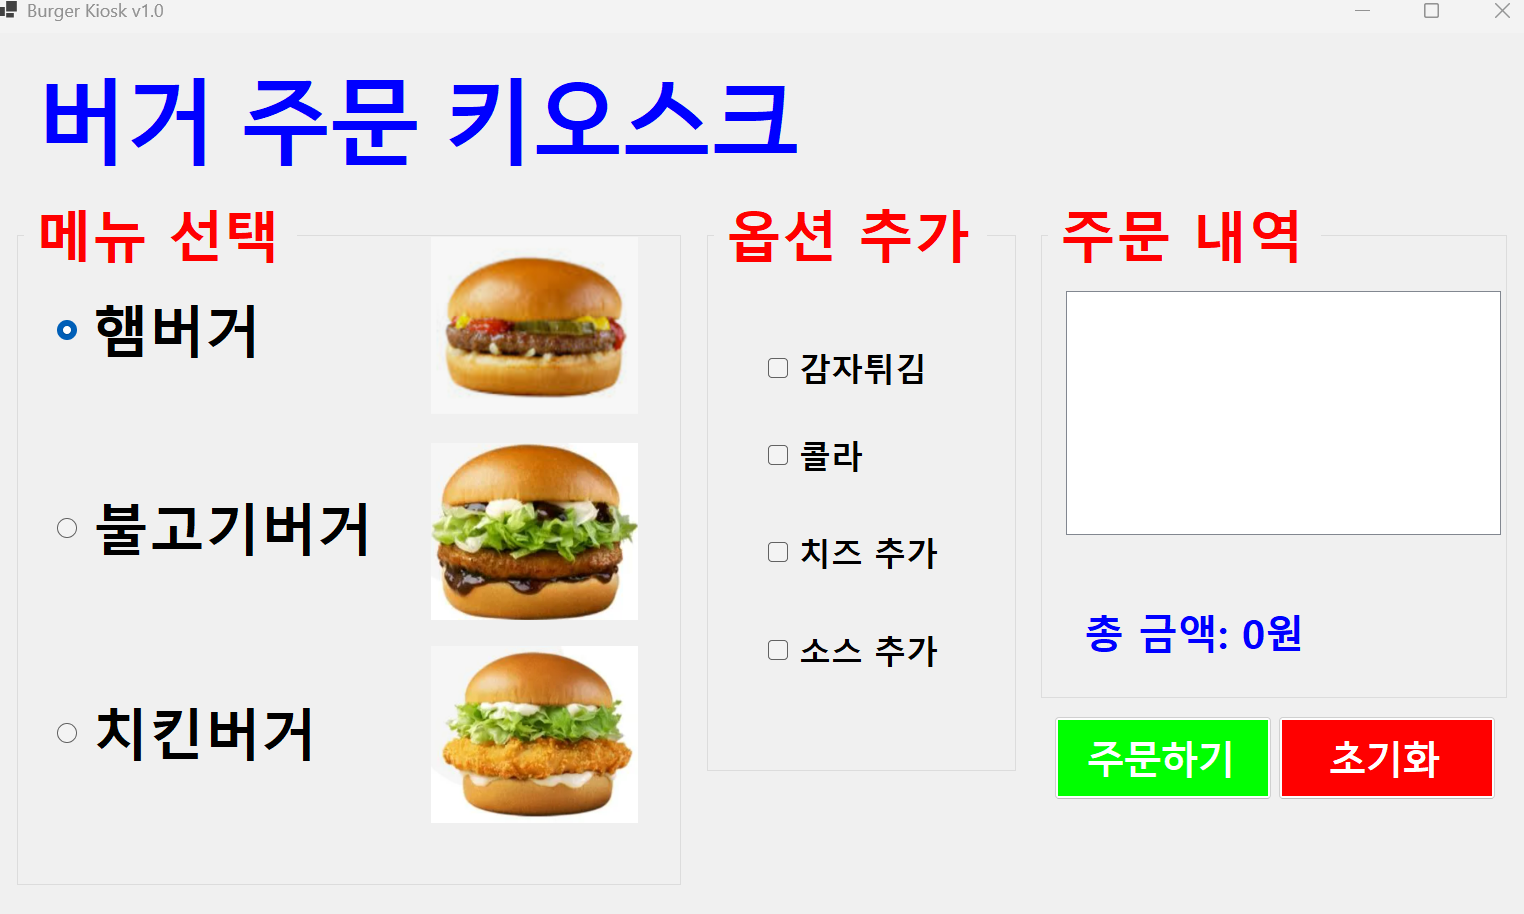
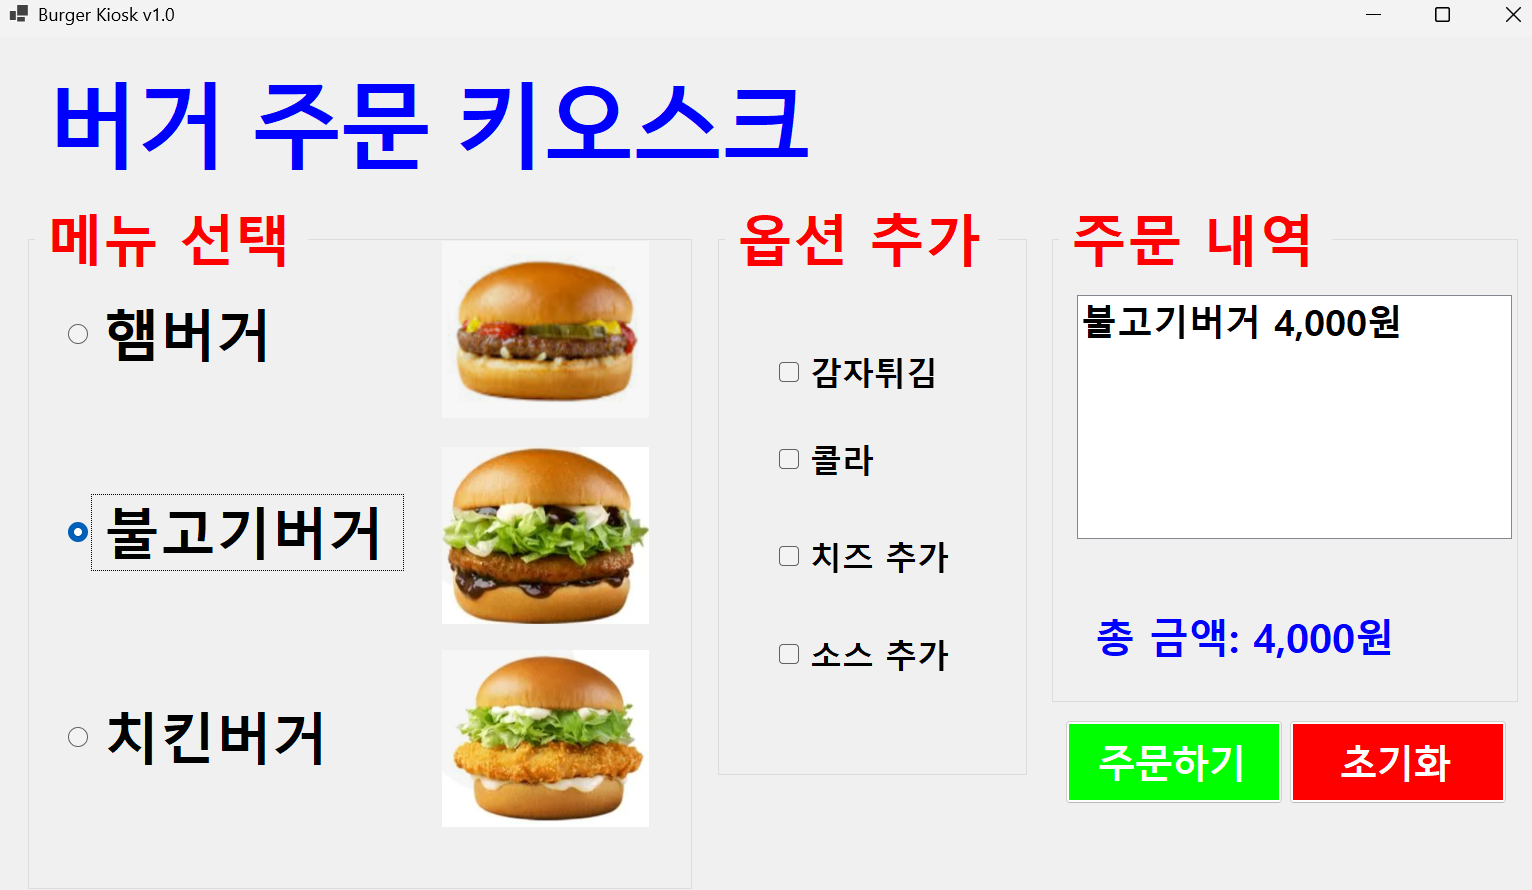
리드 미 수정

diff --git a/README.md b/README.md
@@ -21,9 +21,9 @@
 ## 실행 화면
 - 코드의 실행 스크린샷과 구현 내용 설명
 
-![실행화면](img/screenshot-1.png)
-![실행화면](img/screenshot-2.png)
-![실행화면](img/screenshot-3.png)
+![과제1 실행화면](img/screenshot-1.png)
+![과제1 실행화면](img/screenshot-2.png)
+![과제1 실행화면](img/screenshot-3.png)
 
 - 구현한 내용 (위 그림 참조)
 	- UI 구성 : RadioButton과 CheckBox 등을 적절히 배치
@@ -36,7 +36,7 @@
 ## 실행 화면
 - 코드의 실행 스크린샷과 구현 내용 설명
 
-![실행화면](img/screenshot-4.png)
+![과제2 실행화면](img/screenshot-4.png)
 
 - 구현한 내용 (위 그림 참조)
 	- 아무것도 선택하지 않고 주문하기 버튼을 누르면 에러 메시지 표시
@@ -46,7 +46,7 @@
 ## 실행 화면
 - 코드의 실행 스크린샷과 구현 내용 설명
 
-![실행화면](img/screenshot-5.png)
+![과제3 실행화면](img/screenshot-5.png)
 
 - 구현한 내용 (위 그림 참조)
 	- Tab을 이용해서 GroupBox 사이를 이동하기
@@ -58,7 +58,7 @@
 ## 실행 화면
 - 코드의 실행 스크린샷과 구현 내용 설명
 
-![실행화면](img/screenshot-6.png)
+![과제4 실행화면](img/screenshot-6.png)
 
 - 구현한 내용 (위 그림 참조)
 	- 선택하는 순간 ListBox 주문내역이 표시되도록 구현
